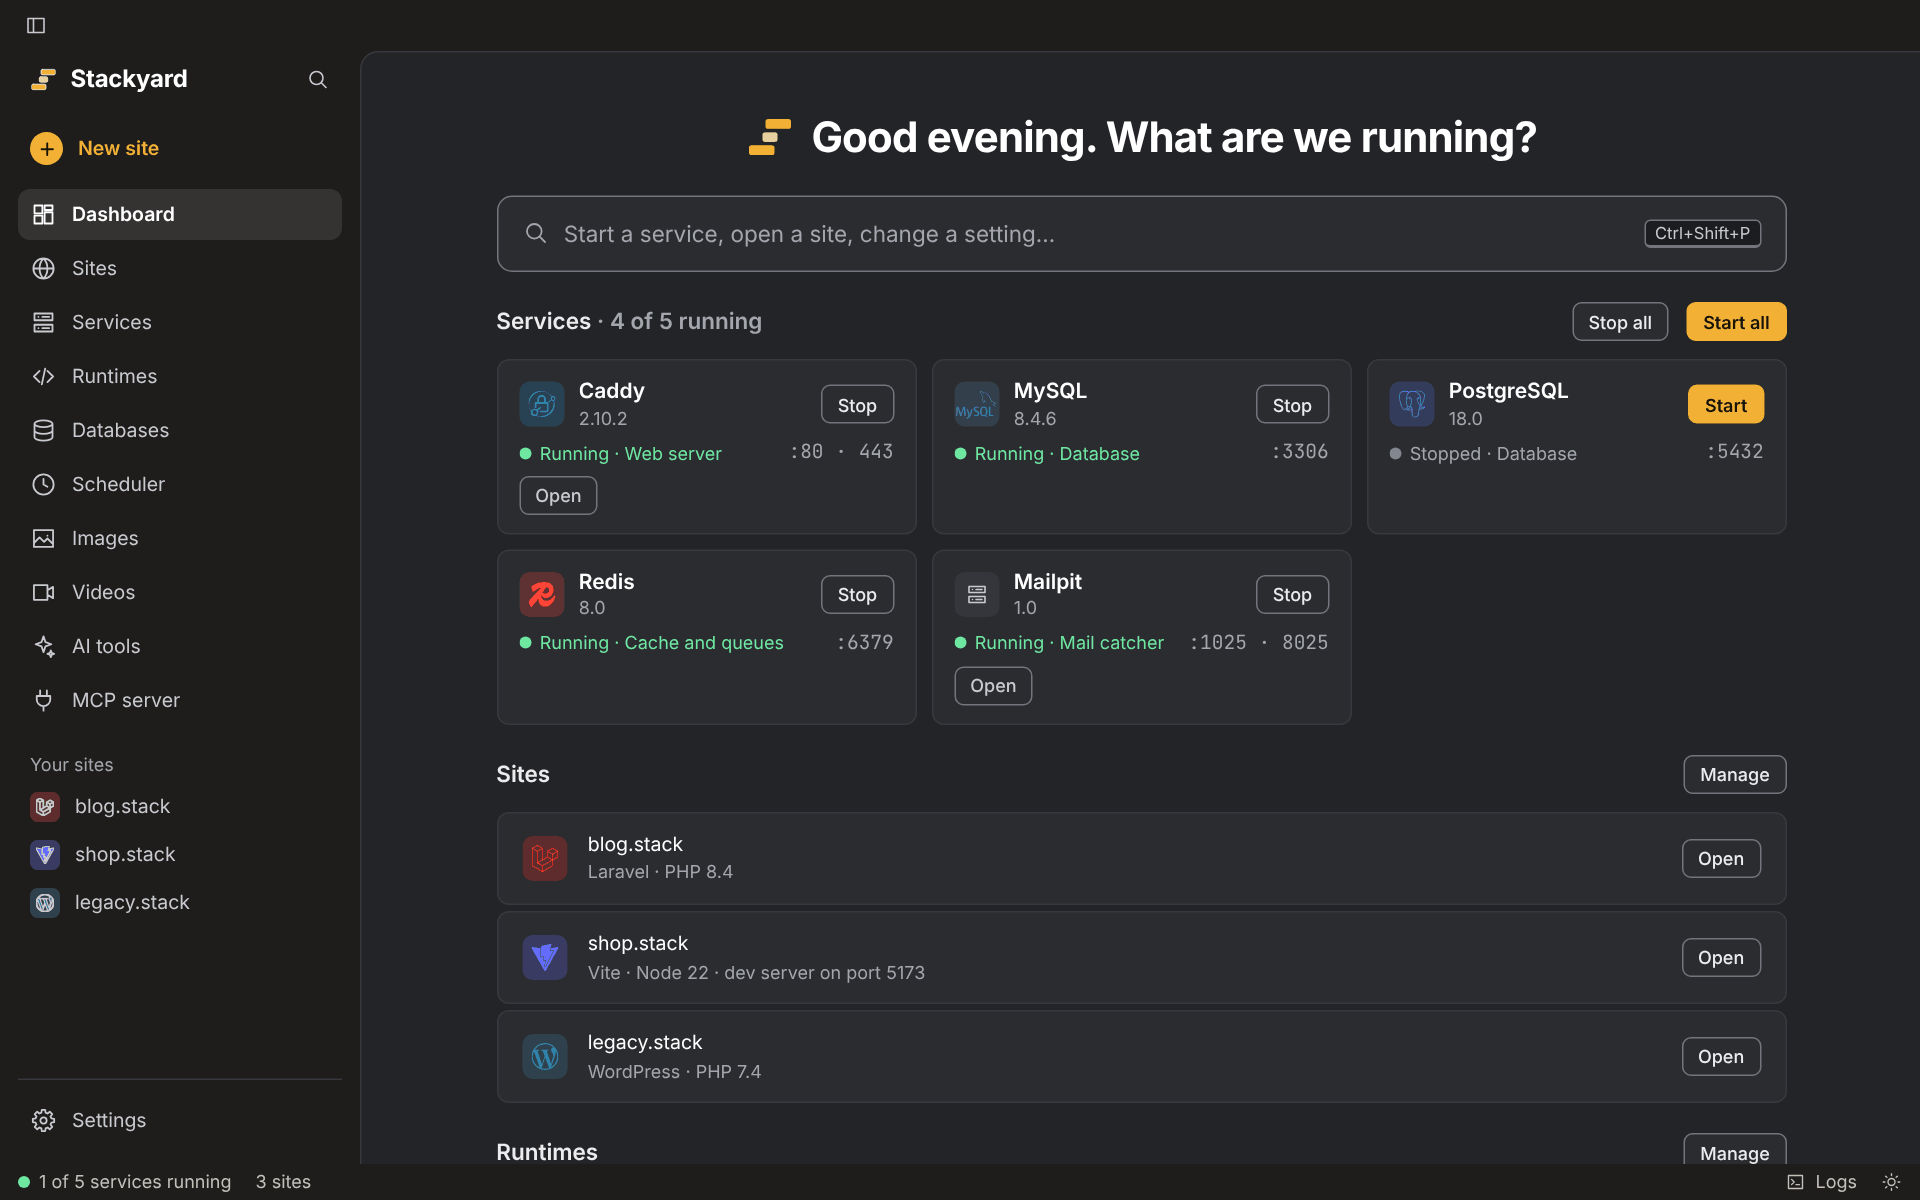
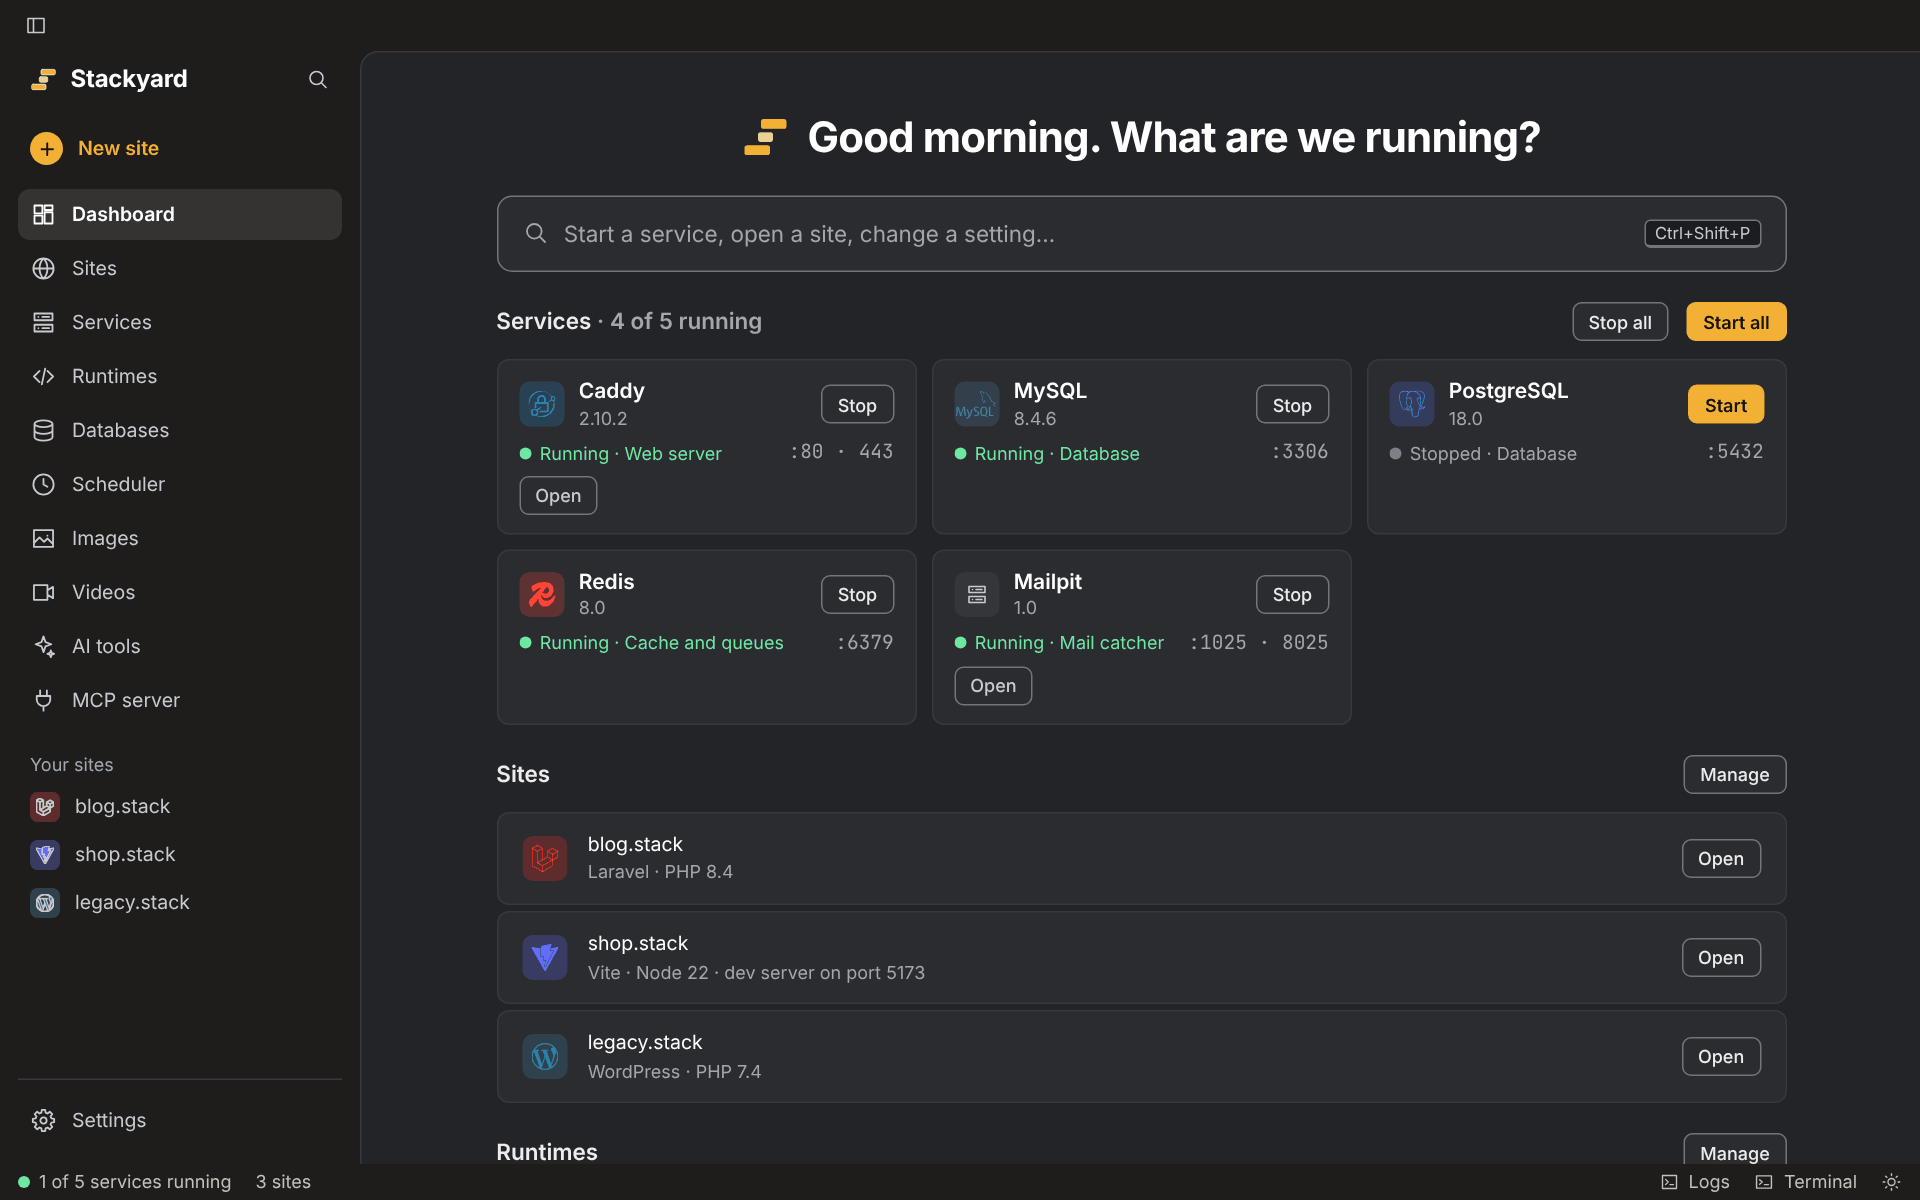
Retake the screenshots in the new look, with WordPress and Terminal shots
Every picture in docs/images is retaken from the redesigned window. Two new
shots: a WordPress site's Environments tab and the Terminal tab in the panel.
They are added to the README, the website's tour and the WordPress and window
guides. The browser preview's terminal now answers stackyard status, php -v
and node -v from its sample data, worded like the real commands.

Changed region(s): [[0.4062, 0.0925, 0.8125, 0.1542], [0.875, 0.9558, 0.9688, 1.0]]

diff --git a/src/lib/api.ts b/src/lib/api.ts
@@ -1199,6 +1199,25 @@ function browserApi(): Api {
   const logTicks: Record<string, number> = {};
   const warn = (t: string) =>
     t === ".local" ? ".local is used by Bonjour/mDNS for devices on your network" : null;
+  // What the preview's terminal prints for a command, worded like the real one.
+  let nextPid = 4205;
+  const consoleReply = (command: string): string[] => {
+    const installed = (kind: RuntimeKind) =>
+      runtimes.find((f) => f.kind === kind)?.versions.find((v) => v.default && v.installed)?.installed;
+    if (command === "stackyard status") {
+      const shown = services.filter((s) => s.installed);
+      const width = Math.max(...shown.map((s) => s.name.length));
+      const web = shown.some((s) => s.id === "caddy" && s.state === "running");
+      return [
+        "Stackyard is running in the Stackyard app (pid 4180).",
+        ...shown.map((s) => `  ${s.name.padEnd(width)} ${s.state === "running" ? `running (pid ${s.pid})` : s.state}`),
+        ...(web ? sites.map((s) => `  ${s.https ? "https" : "http"}://${s.domain}`) : []),
+      ];
+    }
+    if (command === "php -v" && installed("php")) return [`PHP ${installed("php")} (cli) (NTS)`];
+    if (command === "node -v" && installed("node")) return [`v${installed("node")}`];
+    return [command, "(the browser preview has no real shell)"];
+  };
   const mock: Api = {
     listRuntimes: async () => runtimes,
     installRuntime: async (kind, version) => {
@@ -1243,7 +1262,7 @@ function browserApi(): Api {
       const busy = services.find((s) => s.id !== id && s.state === "running" && s.ports.some((p) => services.find((x) => x.id === id)!.ports.includes(p)));
       if (busy) throw `port ${busy.ports[0]} is already in use, so ${services.find((s) => s.id === id)!.name} cannot start`;
       logs[id] = [...(logs[id] ?? []), `started ${id} (sample log line)`];
-      return updateService(id, (s) => ({ ...s, state: "running", pid: 4242 }) as Service);
+      return updateService(id, (s) => ({ ...s, state: "running", pid: (nextPid += 37) }) as Service);
     },
     stopService: async (id) => {
       logs[id] = [...(logs[id] ?? []), `stopped ${id}`];
@@ -1524,12 +1543,13 @@ function browserApi(): Api {
       return terminal;
     },
     onSitesChanged: async () => () => {},
-    // The preview has no shell: the terminal repeats what is typed.
+    // The preview has no shell: the terminal answers a few commands from the
+    // sample data and repeats anything else.
     consoleOpen: async (folder) => {
       const id = ++consoleCount;
       consoleLine[id] = "";
       const prompt = `${folder ?? "~"} $ `;
-      setTimeout(() => consoleOut.forEach((h) => h(id, `Stackyard preview: no real shell here.\r\n${prompt}`)), 50);
+      setTimeout(() => consoleOut.forEach((h) => h(id, prompt)), 50);
       consolePrompt[id] = prompt;
       return id;
     },
@@ -1538,7 +1558,8 @@ function browserApi(): Api {
         if (ch === "\r") {
           const typed = consoleLine[id];
           consoleLine[id] = "";
-          consoleOut.forEach((h) => h(id, `\r\n${typed ? `${typed}\r\n` : ""}${consolePrompt[id]}`));
+          const reply = typed.trim() ? consoleReply(typed.trim()) : [];
+          consoleOut.forEach((h) => h(id, `\r\n${reply.map((l) => `${l}\r\n`).join("")}${consolePrompt[id]}`));
         } else if (ch === "\u007f") {
           if (consoleLine[id]) {
             consoleLine[id] = consoleLine[id].slice(0, -1);

diff --git a/site/index.html b/site/index.html
@@ -169,8 +169,10 @@
       <button role="tab" aria-selected="false" data-shot="services">Services</button>
       <button role="tab" aria-selected="false" data-shot="runtimes">Runtimes</button>
       <button role="tab" aria-selected="false" data-shot="servers">Servers</button>
+      <button role="tab" aria-selected="false" data-shot="wordpress">WordPress</button>
       <button role="tab" aria-selected="false" data-shot="databases">Databases</button>
       <button role="tab" aria-selected="false" data-shot="logs">Logs</button>
+      <button role="tab" aria-selected="false" data-shot="terminal">Terminal</button>
       <button role="tab" aria-selected="false" data-shot="images">Images</button>
       <button role="tab" aria-selected="false" data-shot="videos">Videos</button>
       <button role="tab" aria-selected="false" data-shot="ai-tools">AI tools</button>

diff --git a/site/app.js b/site/app.js
@@ -65,7 +65,9 @@
     runtimes: "Runtimes screen with PHP 7.4 to 8.5, three versions installed",
     servers: "A site's Servers panel with an SFTP server and upload, download and browse buttons",
     databases: "Databases screen listing a database's tables",
-    logs: "Logs screen with warnings and errors highlighted",
+    wordpress: "A WordPress site's Environments tab: stagings, a new staging, and push to or pull from the live site",
+    logs: "The Logs panel with warnings and errors highlighted",
+    terminal: "The Terminal tab in the bottom panel, opened in a site's folder",
     images: "Image optimizer making WebP and AVIF copies of images",
     videos: "Video optimizer making MP4, WebM and GIF copies of videos",
     "ai-tools": "AI tools screen: Claude Code, Codex, Gemini CLI and others, installed and opened in a site's folder",

diff --git a/README.md b/README.md
@@ -171,7 +171,7 @@ stackyard use php 8.3                  # pin a version for the current project
 </tr>
 <tr>
 <td><img src="docs/images/databases.png" alt="Databases screen listing a database's tables, with Query and Backups tabs"></td>
-<td><img src="docs/images/logs.png" alt="Logs screen with warnings and errors highlighted"></td>
+<td><img src="docs/images/logs.png" alt="The Logs panel under the Dashboard, with warnings and errors highlighted"></td>
 </tr>
 <tr>
 <td><img src="docs/images/images.png" alt="Image optimizer making WebP and AVIF copies of images"></td>
@@ -180,6 +180,14 @@ stackyard use php 8.3                  # pin a version for the current project
 <tr>
 <td><img src="docs/images/ai-tools.png" alt="AI tools screen: Claude Code and Codex installed, Gemini CLI and others ready to install, each opening in a chosen site's folder"></td>
 <td><img src="docs/images/settings.png" alt="Settings screen with updates, theme, accent color, language and modules you can switch off"></td>
+</tr>
+<tr>
+<td><img src="docs/images/wordpress.png" alt="A WordPress site's Environments tab: a staging copy, a form for a new staging, and push to or pull from the live site"></td>
+<td><img src="docs/images/terminal.png" alt="The Terminal tab in the bottom panel, opened in a site's folder, running stackyard status, php -v and node -v"></td>
+</tr>
+<tr>
+<td><img src="docs/images/light.png" alt="The Dashboard in the light theme"></td>
+<td></td>
 </tr>
 </table>
 

diff --git a/docs/wordpress.md b/docs/wordpress.md
@@ -89,6 +89,8 @@ A staging is a full copy of a site, next to it, for trying a change before it go
 site: a new checkout, a plugin update, a redesign. Open the site's **WordPress** tab, then
 **Environments**.
 
+<img src="images/wordpress.png" alt="The Environments tab of a WordPress site: one staging, the New staging form and the live site's push and pull choices" width="900">
+
 1. Type a name, e.g. `checkout`. The staging's address is that name in front of the main site's:
    `checkout.shop.stack`.
 2. Pick what it is a copy of: the main site, one of its stagings, or (for a site cloned from a live

diff --git a/docs/appearance-and-languages.md b/docs/appearance-and-languages.md
@@ -91,6 +91,8 @@ outside `theme.ts`.
 
 ## The window
 
+<img src="images/terminal.png" alt="The Home screen with the Terminal tab open in the panel below it, in a site's folder" width="900">
+
 | Part | What it does |
 | --- | --- |
 | Side bar | The search button, **New site**, every screen by name, your first few sites (click one to open it in the browser) and **Settings** at the bottom. Click a screen to show it in place of the one shown; Ctrl+click or middle-click opens it as a tab beside it. |
